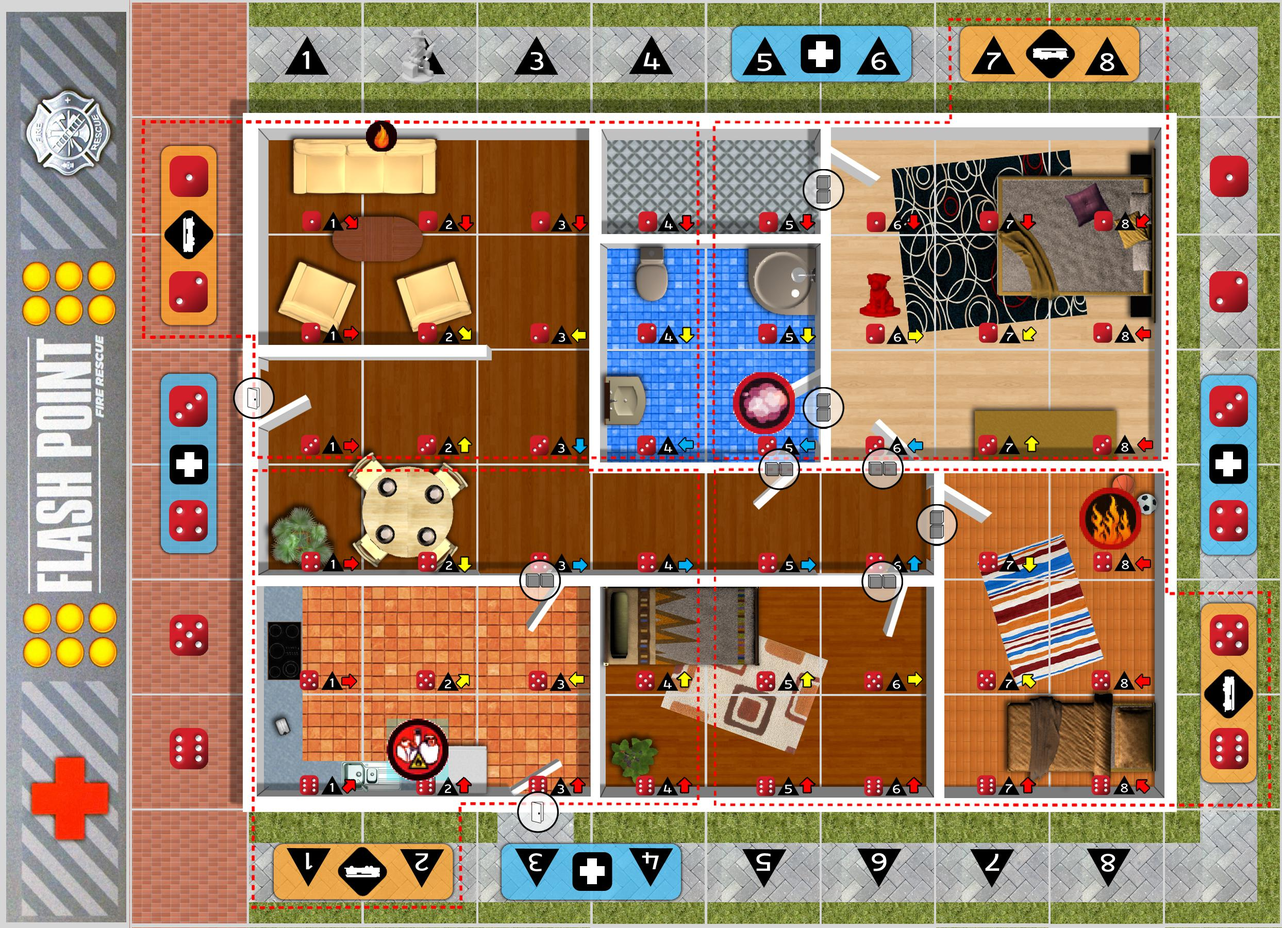
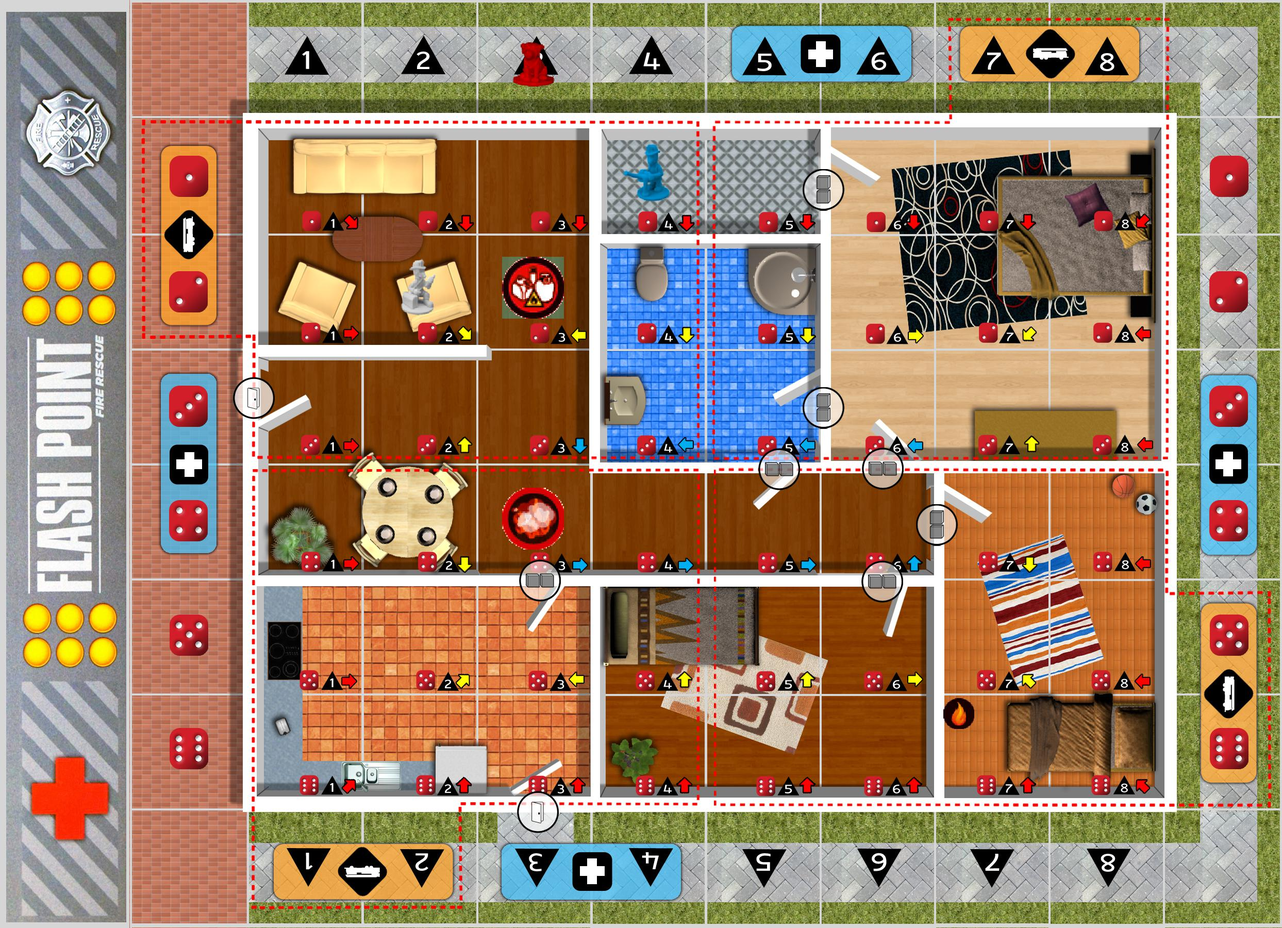
added missing methods from Map to Board

diff --git a/boards.py b/boards.py
@@ -4,54 +4,68 @@ from PIL import Image, ImageFilter
 
 class Board:
 
+    firefighters = {}
+    hazards = {}
+    # pois = {}
+    # links = {}
+    # vehicles = {}
+
     def __init__(self, name):
         self.name = name
-        self.load()
 
-    def load(self):
+    def add_firefighter(self, firefighter):
+        self.firefighters[firefighter.role.lower()] = firefighter
+
+    def get_firefighter(self, role):
+        return self.firefighters[role.lower()]
+
+    def add_hazard(self, hazard):
+        self.hazards[hazard.id] = hazard
+
+    def get_hazard(self, id):
+        return self.hazards[id]
+
+    # def add_poi(self, poi):
+    #     self.pois[poi.id] = poi
+    #
+    # def add_link(self, link):
+    #     self.links[link.id] = link
+    #
+    # def add_vehicle(self, vehicle):
+    #     self.vehicles[vehicle.id] = vehicle
+
+    def draw(self):
         self.image = Image.open( "assets/maps/{}.jpg".format(self.name) )
 
-    def save(self):
+        for firefighter in self.firefighters.itervalues():
+            firefighter.draw(self)
+
+        for hazard in self.hazards.itervalues():
+            hazard.draw(self)
+
         self.image.save('output/output.jpg', 'JPEG')
-
-    def position(self, entity):
-        red = entity.red
-        black = entity.black
-        translatedRed = self.translateRed(red)
-        translatedBlack = self.translateBlack(black)
-        left   = translatedBlack - entity.offsetBlack
-        top    = translatedRed - entity.offsetRed
-        right  = left + entity.width
-        bottom = top + entity.height
-
-        image = self.image
-        alpha = image.split()[-1]
-
-        newImage = Image.new(image.mode, image.size)
-        newImage.paste(image)
-
-        alpha = entity.image.split()[-1]
-
-        newImage.paste(entity.image, (left, top, right, bottom), mask=alpha)
-
-        self.image = newImage
 
     def translateRed(self, red):
         return red
 
     def translateBlack(self, black):
         return black
-        
+
 class StandardBoard(Board):
 
-    BLACK = { 0:368, 1:595, 2:821, 3:1040, 4:1263, 5:1483, 6:1704, 7:1927, 8:2147, 9:2371 }
-    RED = { 0:115, 1:344, 2:572, 3:795,  4:1010, 5:1231, 6:1451, 7:1676 }
+    ORIGIN_RED = 0
+    ORIGIN_BLACK = 252
+    TILE_WIDTH = 220
+    TILE_HEIGHT = 220
+    TILE_BORDER = 4
 
     def __init__(self):
         Board.__init__(self, "standard")
 
     def translateRed(self, red):
-        return Board.translateRed(self, self.RED[red])
+        red = self.ORIGIN_RED + (red * (self.TILE_BORDER + self.TILE_HEIGHT)) + (self.TILE_HEIGHT/2)
+        return Board.translateRed(self, red)
 
     def translateBlack(self, black):
-        return Board.translateBlack(self, self.BLACK[black])
+        black = self.ORIGIN_BLACK + (black * (self.TILE_BORDER + self.TILE_HEIGHT)) + (self.TILE_HEIGHT/2)
+        return Board.translateBlack(self, black)
